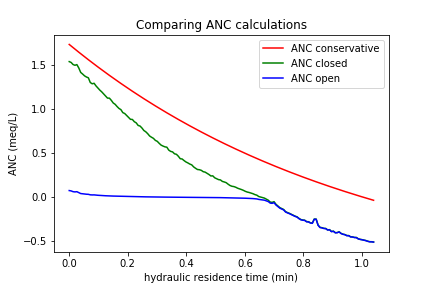
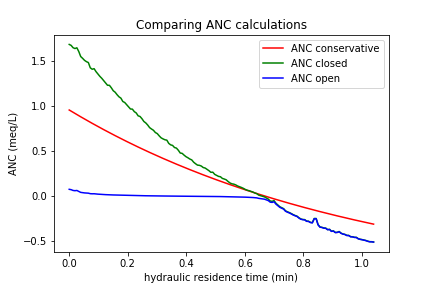
all

diff --git a/Acid_rain_lab_group1_anyadata.md b/Acid_rain_lab_group1_anyadata.md
@@ -40,9 +40,9 @@ import pandas as pd
 
 #Number 1
 #push the data file to your github and then get the url of the raw file.
-data_file_path="https://raw.githubusercontent.com/aks224/4530-aks224/master/Lab%202%20-%20Acid%20Rain.xls"
+data_file_path="https://raw.githubusercontent.com/rosiekrasnoff/CEE4530/master/Lab_2_Acid_Rain.xls"
 # set the start index
-start=419
+start=25
 #The pH data is in column 1
 column=1
 #help(epa.column_of_data)
@@ -50,7 +50,11 @@ lakepH=epa.column_of_data(data_file_path, start, 1, -1)
 
 #extract the corresponding time data and convert to seconds
 time = epa.column_of_time(data_file_path,start,-1).to(u.min)
-residencetime=14.15*u.min
+v = 3.938*u.L #  volume of lake
+q = 5.15*u.mL/u.sec # flow of acid into lake
+q=q.to(u.L/u.min)
+residencetime = v/q
+residencetime
 # hydraulic residence time t/θ
 time
 hrt = time/residencetime
@@ -63,14 +67,14 @@ plt.xlabel('hydraulic residence time (min)')
 plt.ylabel('pH')
 plt.title('pH of lake')
 
-plt.savefig('/Users/Rosie/github/CEE4530/lab2_pHgraph_anya1.png')
+plt.savefig('/Users/Rosie/github/CEE4530/lab2_pHgraph_ourdata1.png')
 plt.show()
 
 #Number 2
 #ANC_expected=[ANC_out−ANC_in⋅(1−e^−t/θ)]e^t/θ
 #to find ANCo: they added .620 g of NaH2CO3
 
-ANC_0=(.620*u.g)/(84.01*u.g/u.mol)/(4.246*u.L)
+ANC_0=(.628*u.g)/(84.01*u.g/u.mol)/(3.938*u.L)
 ANC_expected=epa.ANC_open(3)*(1-(np.exp(-hrt)))+(ANC_0*(np.exp(-hrt)))
 
 #fig, ax = plt.subplots()
@@ -111,7 +115,7 @@ plt.title('Comparing ANC calculations')
 plt.xlabel('hydraulic residence time (min)')
 plt.ylabel('ANC (meq/L)')
 plt.legend(['ANC conservative', 'ANC closed', 'ANC open'])
-plt.savefig('/Users/Rosie/github/CEE4530/lab2_pHgraph_anyaALL3.png')
+plt.savefig('/Users/Rosie/github/CEE4530/lab2_pHgraph_ourdataALL3.png')
 plt.show()
 
 
@@ -146,9 +150,10 @@ plt.show()
 
 #Number 5.2
 #ANC_expected=[ANC_out−ANC_in⋅(1−e^−t/θ)]e^t/θ
-#to find ANCo: added .620 g of NaH2CO3
+#to find ANCo: added .317 g of NaH2CO3 the second time
 ANC_02=(.317*u.g)/(84.01*u.g/u.mol)/(3.938*u.L)
-ANC_expected2=epa.ANC_open(3)*(1-(np.exp(-hrt)))+(ANC_0*(np.exp(-hrt)))
+ANC_expected2=epa.ANC_open(3)*(1-(np.exp(-hrt)))+(ANC_02*(np.exp(-hrt)))
+
 
 #Number 5.3
 carbs2=ANC_0
@@ -173,10 +178,11 @@ plt.show()
 ```
 # Questions
 1. What do you think would happen if enough NaHCO3 were added to the lake to maintain an ANC greater than 50μeq/L for 3 residence times with the stirrer turned off?
-**If an ANC greater than 50μeq/L were maintained, the solution will stay blue longer because it contains more bases that will react with the acid. And because the solution won't be stirred, we will need to add more NaHCO3. According to our prelab calculations, 6.75 grams of NaHCO3 would need to be added.
-If the stirrer were turned off, it would cause the NAHCO3 to simply sink to the bottom of the lake since its density = 2.2g/cm3 is higher than that of the lake. As the added base reacts with the acidic solution, some of will dissolve**
+**If the stirrer were turned off, it would cause the NAHCO3 to simply sink to the bottom of the lake since its density = 2.2g/cm3 is higher than that of the lake. As the added base reacts with the acidic solution, some of will dissolve and also sink to the bottom. Thus, the difference in densities on the top and bottom will cause the solution to acidify despite the increase of NAHCO3.**
 
 2. What are some of the complicating factors you might find in attempting to remediate a lake using CaCO3? Below is a list of issues to consider.
 a) extent of mixing
+**Lake isn't mixed so CaCO3 will just settle.**
 b) solubility of CaCO3 (find the solubility and compare with NaHCO3)
+**CaCO3 is not only more dense, but also  sink quicker and rate of dissoliving is slower than rate of sinking so will just sit on hte bottom**
 c) density of CaCO3 slurry (find the density of CaCO3)
